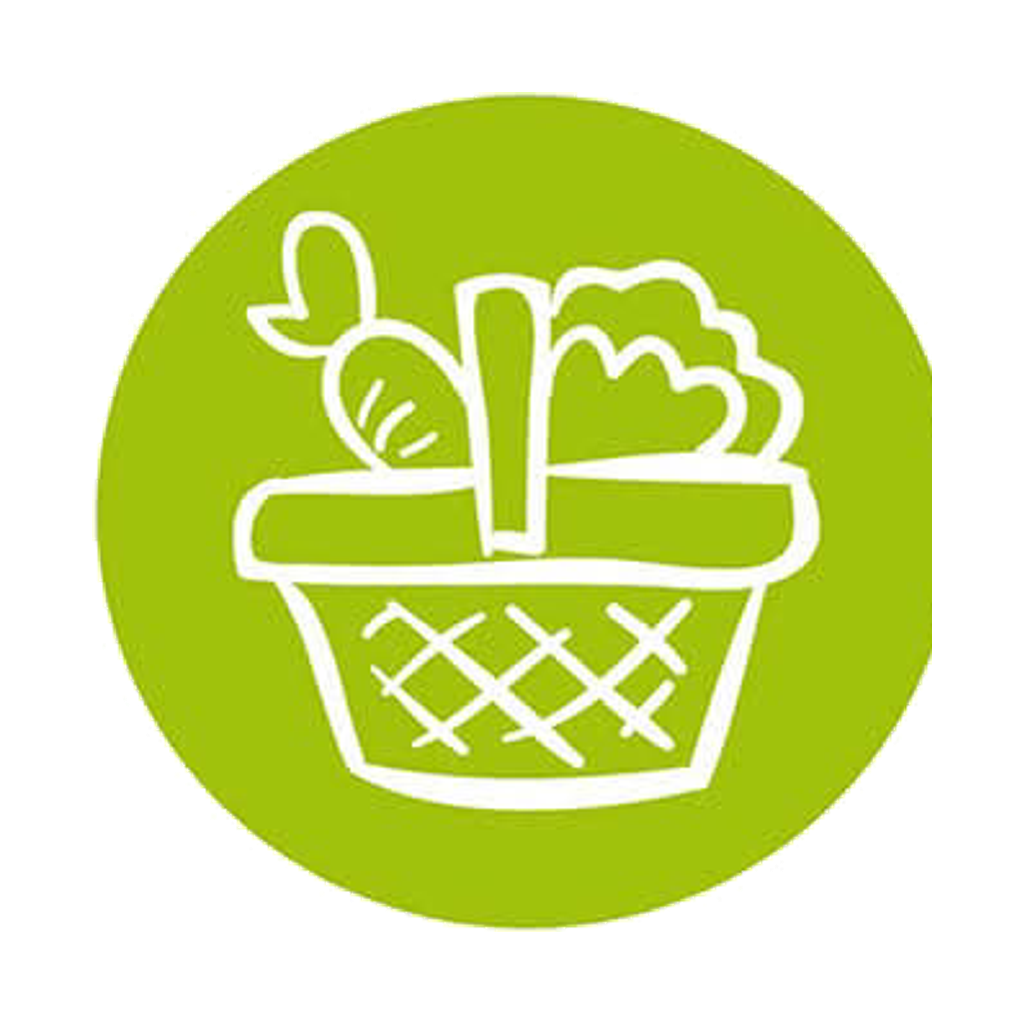
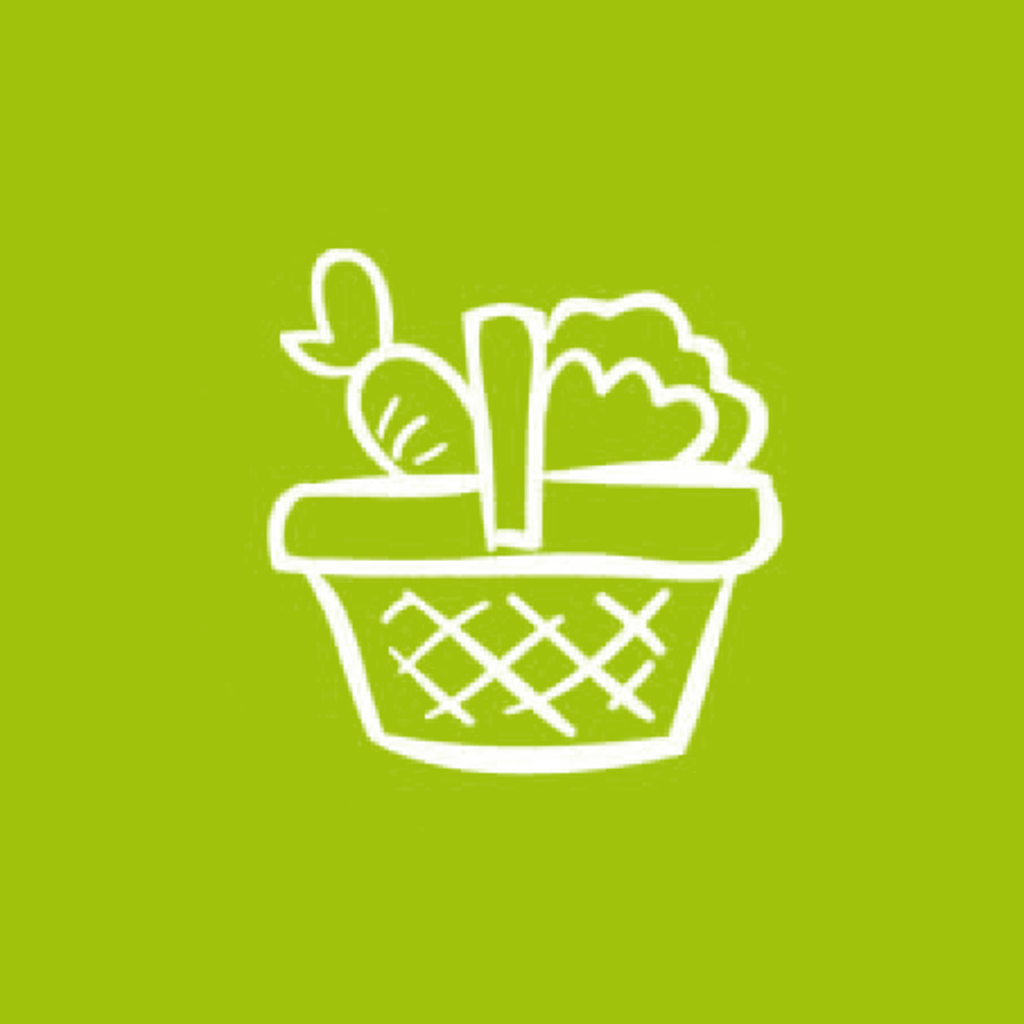
fix(mobile): icônes sans coins/carré blancs + splash non rogné
- Icône adaptative Android : fond #A0C20C (vert exact du panier) +
  premier plan = panier blanc seul → plus de blanc dans les coins
  quel que soit le masque du launcher (rond/carré/squircle).
- Icône iOS (icon.png) : vert plein cadre + panier → plus de coins blancs.
- Splash : fond blanc + nouveau logo empilé carré (splash-logo.png),
  imageWidth 260 → 200 pour tenir dans le cercle ~192 dp d'Android 12
  (le débordement = tagline rognée venait de là).
- Icône de notification : notification-icon.png (panier blanc/transparent)
  au lieu de icon.png opaque → plus de carré blanc dans la barre d'état.
- docs : entrée JOURNAL (masque circulaire splash + coins blancs icônes)
  + playbook notif pointe vers l'asset dédié.

Assets natifs → nécessitent un rebuild EAS (pas d'OTA).

diff --git a/docs/JOURNAL.md b/docs/JOURNAL.md
@@ -28,6 +28,20 @@
 
 ## Entrées
 
+### 2026-06-28 — Icônes & Splash Android/iOS — coins blancs + splash rogné
+- **Symptôme** : (1) icône d'app laisse du **blanc dans les coins** sur certains téléphones ; (2) **splash** affiche le logo **coupé** à droite (« …de Proximi**té** » tronqué).
+- **Cause racine** :
+  - **Icône adaptative Android** : `adaptiveIcon.backgroundColor` était `#ffffff` + premier plan = **cercle** vert sur transparent. Les launchers à masque **carré/squircle** montrent le fond blanc dans les coins (un masque rond, lui, le cachait → « seulement certains téléphones »).
+  - **Icône iOS** (`icon.png`) : image **opaque** cercle-sur-carré-blanc → iOS masque en carré arrondi et révèle les coins blancs.
+  - **Splash Android 12+** : le plugin `expo-splash-screen` compose l'image dans un canevas **288 dp**, puis Android l'affiche en `windowSplashScreenAnimatedIcon` **masqué en cercle ~192 dp**. Tout ce qui dépasse ce cercle est rogné. Un logo **large ou haut** + un `imageWidth` trop grand (260) → déborde du cercle → coupé.
+  - **Icône de notif** : pointait sur `icon.png` (opaque) → Android n'utilise que l'alpha → **carré blanc** (cf. playbook §9).
+- **Fix** (commit à venir) : `adaptiveIcon.backgroundColor` = **`#A0C20C`** (vert exact du panier) + premier plan = **panier blanc seul** ; `icon.png` refait en **vert plein cadre** ; splash en **fond blanc** + logo empilé carré centré **dans la zone sûre** + `imageWidth` **260 → 200** (tout tient dans le cercle) ; notif → `notification-icon.png` (panier **blanc/transparent**).
+- **Prévention** :
+  - **Icône adaptative** = fond **plein** (couleur ou image full-bleed), jamais blanc derrière un premier plan qui ne remplit pas le canevas. Le premier plan = le **mark seul** sur transparent.
+  - **Splash Android 12** = penser **cercle ~192 dp** : le logo doit **tenir dans un cercle centré**, pas juste dans un carré. Un logo large/haut sera rogné. `imageWidth` ≈ 200 max pour ce logo ; idéalement viser un **mark rond** (remplit le cercle) ou réduire jusqu'à ce que tout rentre. Fond = même couleur que le padding du logo → un éventuel rognage de bord devient invisible.
+  - Tout ça = **assets natifs → rebuild EAS** (jamais OTA / jamais visible dans Expo Go).
+- **Voir aussi** : playbook §9 (piège icône notif) ; `app.json` (`adaptiveIcon`, `expo-splash-screen`, `expo-notifications`).
+
 ### 2026-06-22 — Notif/FCM — 0 token sur Android malgré permission accordée
 - **Symptôme** : `device_tokens` reste vide même avec la permission notifications **acceptée** ; aucun push possible.
 - **Cause racine** : **FCM non configuré**. Sur Android, `getExpoPushTokenAsync` a besoin du `google-services.json` (côté app) pour obtenir un token → sans lui il **échoue silencieusement** (l'appel est en `void`, l'erreur passe inaperçue).

diff --git a/docs/notifications-playbook.md b/docs/notifications-playbook.md
@@ -176,7 +176,7 @@ npx expo install expo-notifications expo-dev-client    # (+ expo-device, expo-co
 - **Monorepo npm** : ajouter la dépendance dans `package.json` + **`npm install` à la racine** (pas `npm install <pkg>` dans le sous-dossier, ça casse `node_modules/.bin`).
 - **GitHub « secret detected » sur `google-services.json`** : c'est l'**API key Android** (`AIzaSy…`). **Faible risque** — elle est embarquée dans chaque APK, ce n'est pas un vrai secret. Fix = la **restreindre** dans Google Cloud Console (Application restrictions: Android + package + SHA‑1 ; API restrictions: Firebase/FCM), puis fermer l'alerte. Le **vrai** secret = la **clé de compte de service** (`private_key`, `type: service_account`) → **JAMAIS** dans le repo, uniquement dans EAS. (Option « zéro clé dans git » : retirer `google-services.json` du repo et l'injecter via une *file env var* EAS.)
 - **`device_id` invité = AsyncStorage → réinitialisé à CHAQUE réinstallation** de l'app (la désinstallation efface AsyncStorage). Conséquence : une commande invité passée **avant** une réinstall a un `device_id` orphelin → **pas de push**. Pour tester l'invité, passer la commande **après** l'install courant, et cibler une commande dont le `device_id` = celui du token. (Le connecté n'a pas ce souci : résolu par `user_id`.)
-- **Icône de notif Android (barre d'état)** = `expo-notifications.icon` (+ `color`) dans `app.json`. ⚠️ Elle doit être **monochrome (blanc sur transparent)** : Android n'affiche que la **silhouette** (alpha), peinte en blanc puis teintée par `color`. Une icône **couleur** (ex. l'icône d'app) ressort en **carré/blob blanc**. → fournir un PNG blanc-sur-transparent dédié (~96×96+). Changement **natif → rebuild** (pas d'OTA). **iOS** : pas d'icône custom (affiche l'icône d'app).
+- **Icône de notif Android (barre d'état)** = `expo-notifications.icon` (+ `color`) dans `app.json`. ⚠️ Elle doit être **monochrome (blanc sur transparent)** : Android n'affiche que la **silhouette** (alpha), peinte en blanc puis teintée par `color`. Une icône **couleur** (ex. l'icône d'app) ressort en **carré/blob blanc**. → fournir un PNG blanc-sur-transparent dédié (~96×96+). Changement **natif → rebuild** (pas d'OTA). **iOS** : pas d'icône custom (affiche l'icône d'app). ✅ Lumoo : `apps/mobile/assets/images/notification-icon.png` (panier blanc/transparent, 512×512, remplit ~82 % du cadre) — **ne pas** repointer sur `icon.png` (opaque → carré blanc).
 
 ---
 